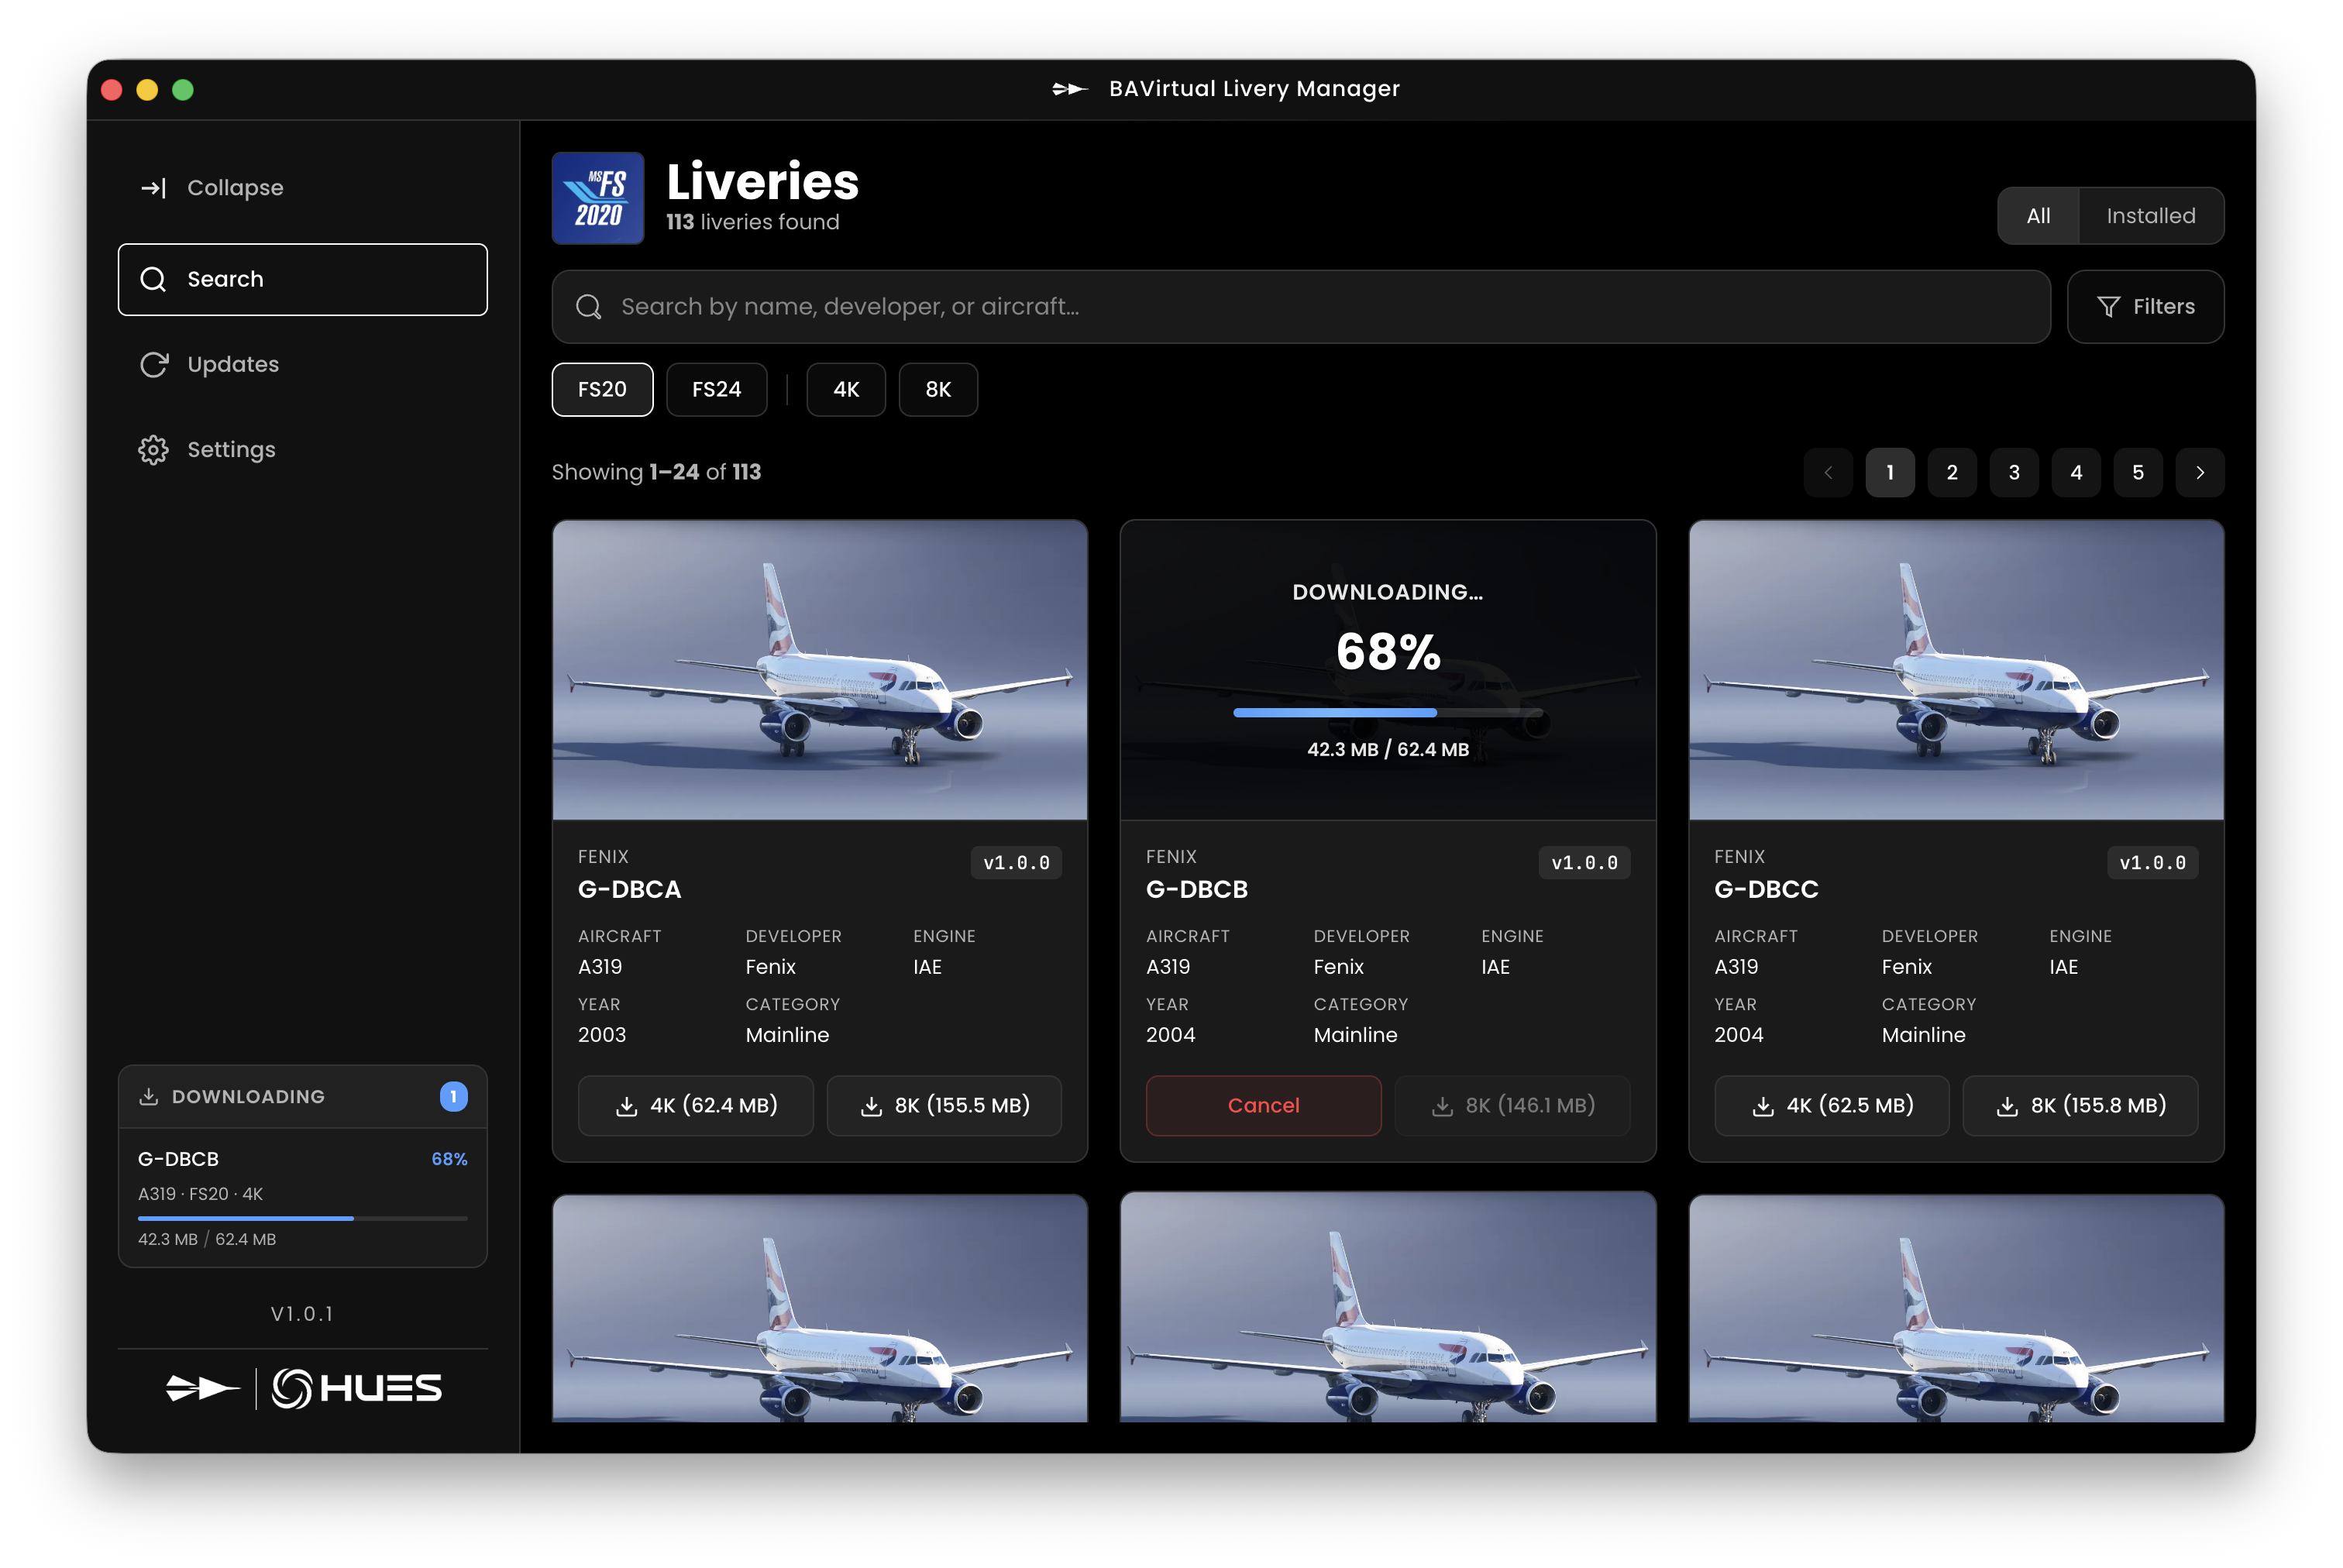
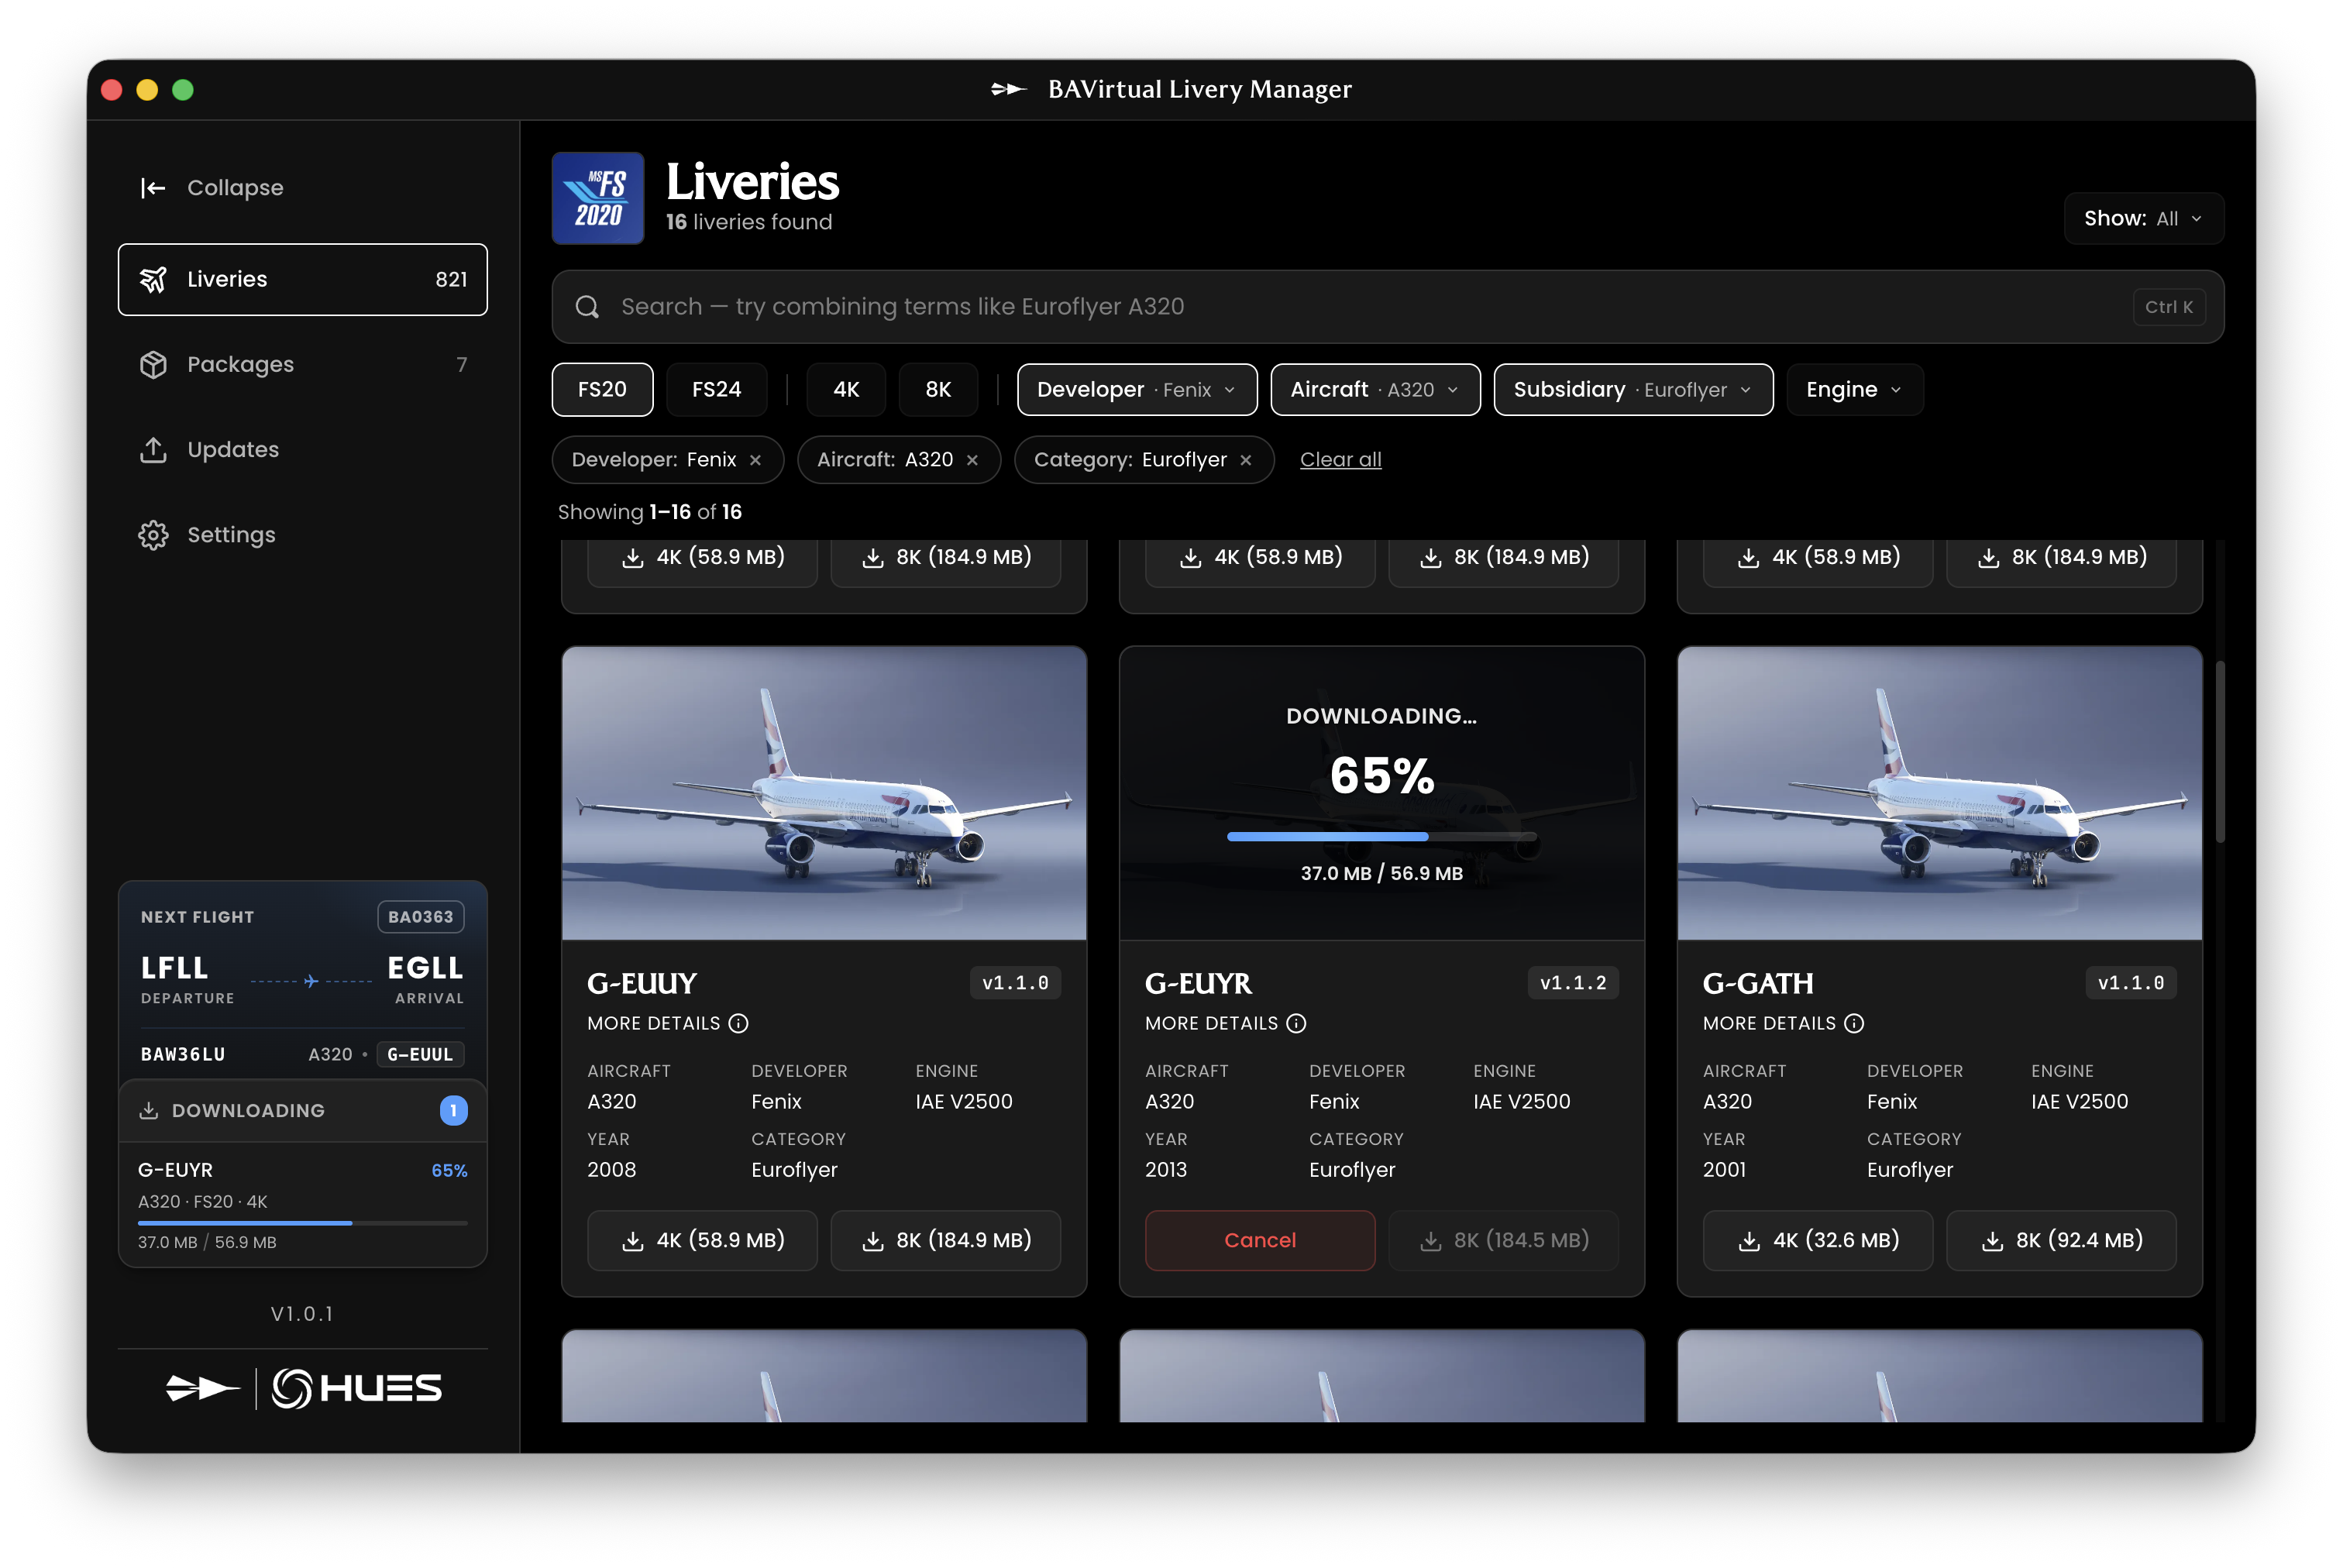
updated readme and picture

diff --git a/README.md b/README.md
@@ -14,28 +14,70 @@ A desktop utility that helps **BAVirtual (British Airways Virtual)** pilots inst
 
 ## ✨ Features
 
-- Browse the full list of available BAVirtual liveries
-- Install liveries into Microsoft Flight Simulator 2020 & 2024
-- Detect installed liveries and compare versions  
-- Update outdated liveries with one click  
-- Lightweight Electron-based UI
+- **One-click installs** for the full BAVirtual livery catalog into MSFS 2020 and MSFS 2024
+- **4K / 8K variants** — choose the resolution per livery
+- **Smart search & filters** by aircraft, developer, subsidiary, engine, resolution, year, and installed state
+- **Required packages** (SpeedCore, sound packs, and other addons) are detected and installed automatically alongside compatible liveries
+- **Update notifications** — outdated liveries and packages are flagged in the sidebar and updated in one click
+- **Next Flight integration** — see your booked BAVirtual flight in the sidebar and jump straight to the right livery
+- **Dark & light themes**
+- **Auto-updating** — new versions install themselves from GitHub releases
+- Lightweight Electron UI built with React + TypeScript
 
 ---
 
 ## 📦 Installation
 
-1. Go to the **[Releases](https://github.com/p-sergienko/bav-livery-manager/releases)** section.  
-2. Download the latest version.  
-3. Run the installer.  
+> Currently distributed for **Windows (x64)** only.
+
+1. Go to the **[Releases](https://github.com/p-sergienko/bav-livery-manager/releases)** page.
+2. Download the latest `BAV-Livery-Manager-x.y.z-Setup.exe`.
+3. Run the installer and launch the app.
+4. Sign in with your BAVirtual credentials.
+
+Future versions install themselves automatically, so you only need to do this once.
 
 ---
 
-## 🛠 Usage
+## 🧱 Built with
 
-1. Launch the application.  
-2. Set the MSFS Community folder path if it is not detected automatically.  
-3. Select any livery from the list.  
-4. Press **Install** to add it to your simulator.
+- [Electron](https://www.electronjs.org/) + [Vite](https://vitejs.dev/)
+- [React 19](https://react.dev/) + [TypeScript](https://www.typescriptlang.org/)
+- [TanStack Query](https://tanstack.com/query), [Zustand](https://zustand-demo.pmnd.rs/), [React Router](https://reactrouter.com/)
+- [Bun](https://bun.sh/) as the package manager
 
-The app automatically checks versions and notifies you when updates are available.
+---
 
+## 🧑💻 Development
+
+```bash
+# install dependencies
+bun install
+
+# run the app with hot reload (renderer + Electron main)
+bun run dev
+
+# build the production bundle
+bun run build
+
+# produce a Windows installer in ./release
+bun run build:exe
+```
+
+The renderer dev server runs on `http://localhost:5173`; Electron picks it up once the main-process TypeScript has compiled.
+
+---
+
+## 🐛 Reporting issues
+
+Bugs and feature requests live on **[GitHub Issues](https://github.com/p-sergienko/bav-livery-manager/issues)**.
+
+For livery-specific support (broken textures, missing aircraft, etc.), please raise a ticket via the **[BAV Support System](https://support.bavirtual.co.uk/)**.
+
+---
+
+## 📄 License
+
+Released under the **[MIT License](./LICENSE)** © 2025 Pavel Sergienko.
+
+Built by **Pavel Sergienko** and **Laurie Cooper** for the BAVirtual community.